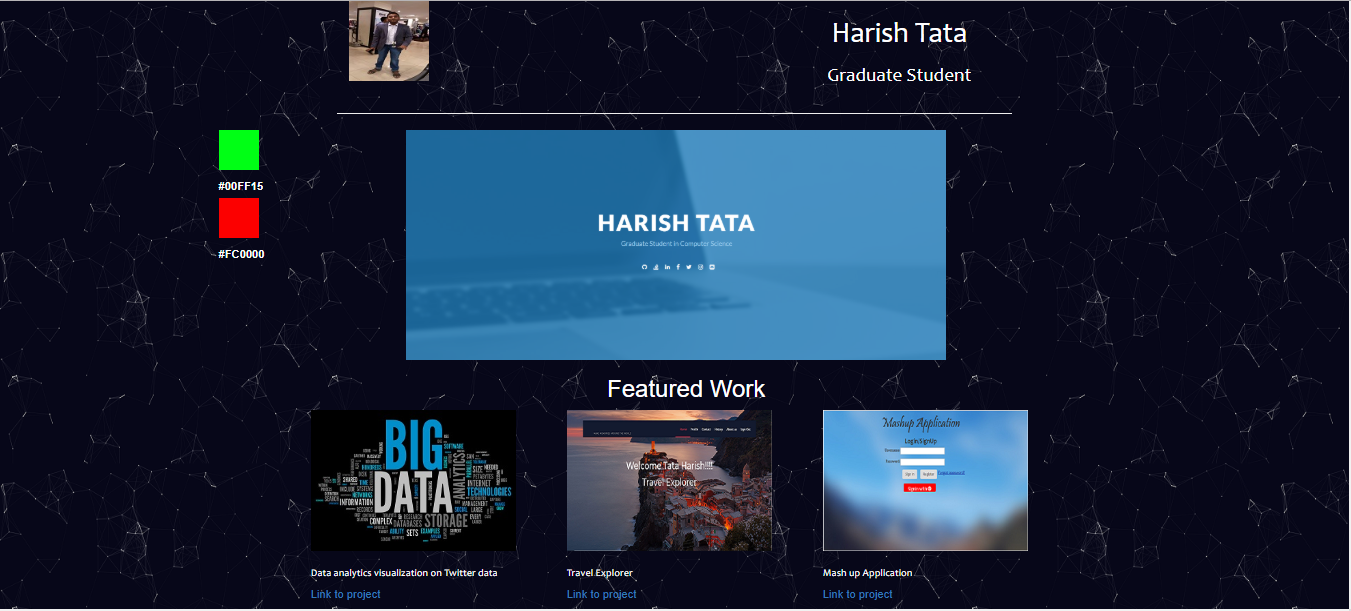
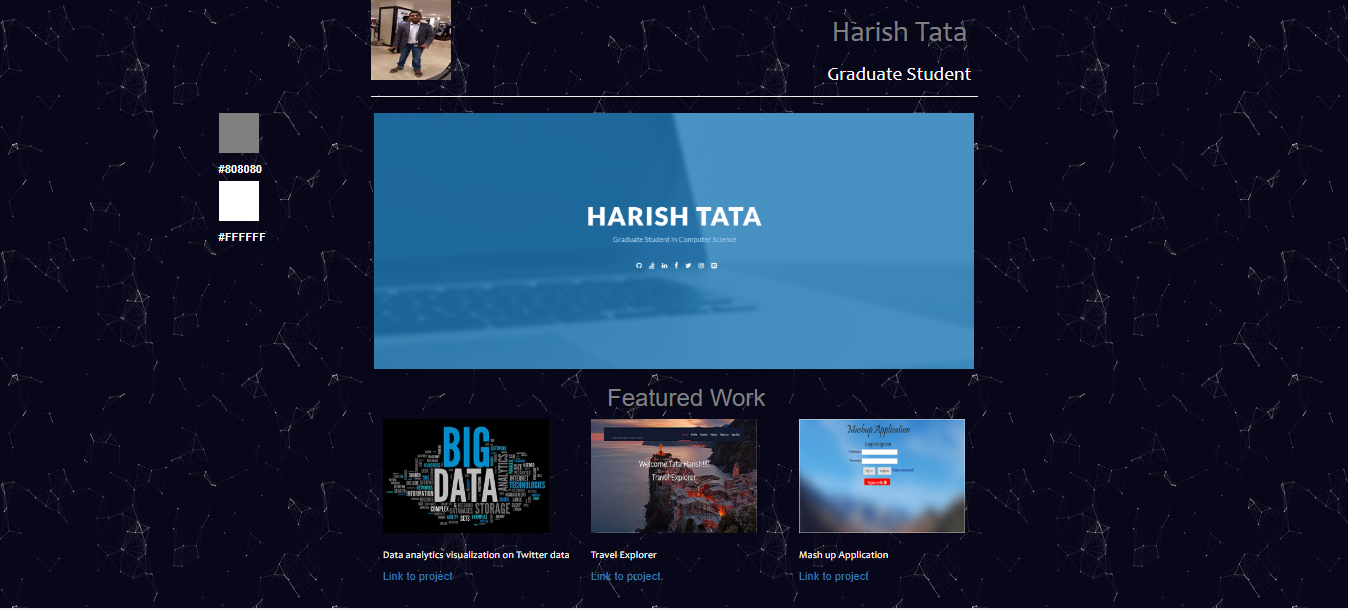
commit4

diff --git a/ICP3/SourceCode/RWD Task/input/input.html b/ICP3/SourceCode/RWD Task/input/input.html
@@ -30,8 +30,8 @@ TODO:
             </div>
             <div class="col-sm-4"></div>
             <div class="col-sm-4 topheading">
-                <h1 class="text">Harish Tata</h1>
-                <h3 class="text">Graduate Student</h3>
+                <h1 class="text gray">Harish Tata</h1>
+                <h3 class="text white">Graduate Student</h3>
             </div>
         </div>
         <!-- <div class="topdiv">
@@ -45,35 +45,35 @@ TODO:
     </center>
     <div class="container">
         <div class="row">
-            <div class="col-sm-3">
+            <div class="col-sm-2">
                 <p class="square" id="s1"></p>
-                <label class="lbl">#00FF15</label>
+                <label class="lbl">#808080</label>
                 <p class="square1" id="s2"></p>
-                <label class="lbl"> #FC0000</label>
+                <label class="lbl"> #FFFFFF</label>
             </div>
             <div class="col-sm-8 midimg">
-                <img width="90%" src="../SampleImages/home.jpg">
+                <img width="100%" src="../SampleImages/home.jpg">
             </div>
         </div>
     </div>
     <div>
-        <h2 class="header2 text">Featured Work </h2>
+        <h2 class="header2 text gray">Featured Work </h2>
     </div>
     <div class="flex-container">
         <div class="flex-item">
             <img class="projimg" src="../SampleImages/1.jpg">
-            <h3 class="header3 text">Data analytics visualization on Twitter data</h3>
+            <h3 class="header3 text white">Data analytics visualization on Twitter data</h3>
             <p><a href="https://github.com/htata31/PB_PROJECT" target="_blank">Link to project</a></p>
         </div>
         <div class="flex-item">
             <img class="projimg" src="../SampleImages/3.jpg">
-            <h3 class="header3 text">Travel Explorer</h3>
+            <h3 class="header3 text white">Travel Explorer</h3>
             <p><a href="https://github.com/SaranAkkiraju/CS5551_Team8_Project/wiki/Project-Increment-3"
                     target="_blank">Link to project</a></p>
         </div>
         <div class="flex-item">
             <img class="projimg" src="../SampleImages/4.jpg">
-            <h3 class="header3 text">Mash up Application</h3>
+            <h3 class="header3 text white">Mash up Application</h3>
             <p><a href="https://github.com/htata31/CS5551_TEAM8_LABASSIGN_ID_50_02/" target="_blank">Link to project</a>
             </p>
         </div>

diff --git a/ICP3/SourceCode/RWD Task/css/style.css b/ICP3/SourceCode/RWD Task/css/style.css
@@ -17,8 +17,8 @@
     font-size: 1.5em;
     text-align: center; */
     /* flex: 1 0 auto; */
-    height:300px;
-    width:320px
+    height:250px;
+    width:260px
 }
 .flex-item:before {
     content:'';
@@ -37,14 +37,16 @@
 
 .topdiv{
     width:50%;
-    height: 120px;
+    height: 100px;
 }
 .horizontalline{
-    width:50%;
+    width:45%;
 }
 
 .image{
     float: left;
+    position: absolute;
+    left: 15%;
 }
 
 .topheading{
@@ -69,19 +71,26 @@
 .square {
     height: 50px;
     width: 50px;
-    background-color:#00FF15;
+    background-color:gray;
   }
 
-  .square1 {
+.square1 {
     height: 50px;
     width: 50px;
-    background-color: #FC0000;
+    background-color: white;
+  }
+
+  .gray{
+color: gray
+  }
+  .white{
+      color:white
   }
 .midimg{
     position: absolute;
-    left: -5%;
+    left: 0%;
 }
 .lbl{
-    color: white;
+    color: white
 }
 

diff --git a/ICP3/SourceCode/RWD Task/input/script.js b/ICP3/SourceCode/RWD Task/input/script.js
@@ -1,8 +1,8 @@
 $( document ).ready(function() {
-    $("#s1").click(function () {
-        $(".text").css("color", "#00FF15");
-    });
-    $("#s2").click(function () {
-        $(".text").css("color", "#FC0000");
-    });
+    // $("#s1").click(function () {
+    //     $(".text").css("color", "#00FF15");
+    // });
+    // $("#s2").click(function () {
+    //     $(".text").css("color", "#FC0000");
+    // });
 });
